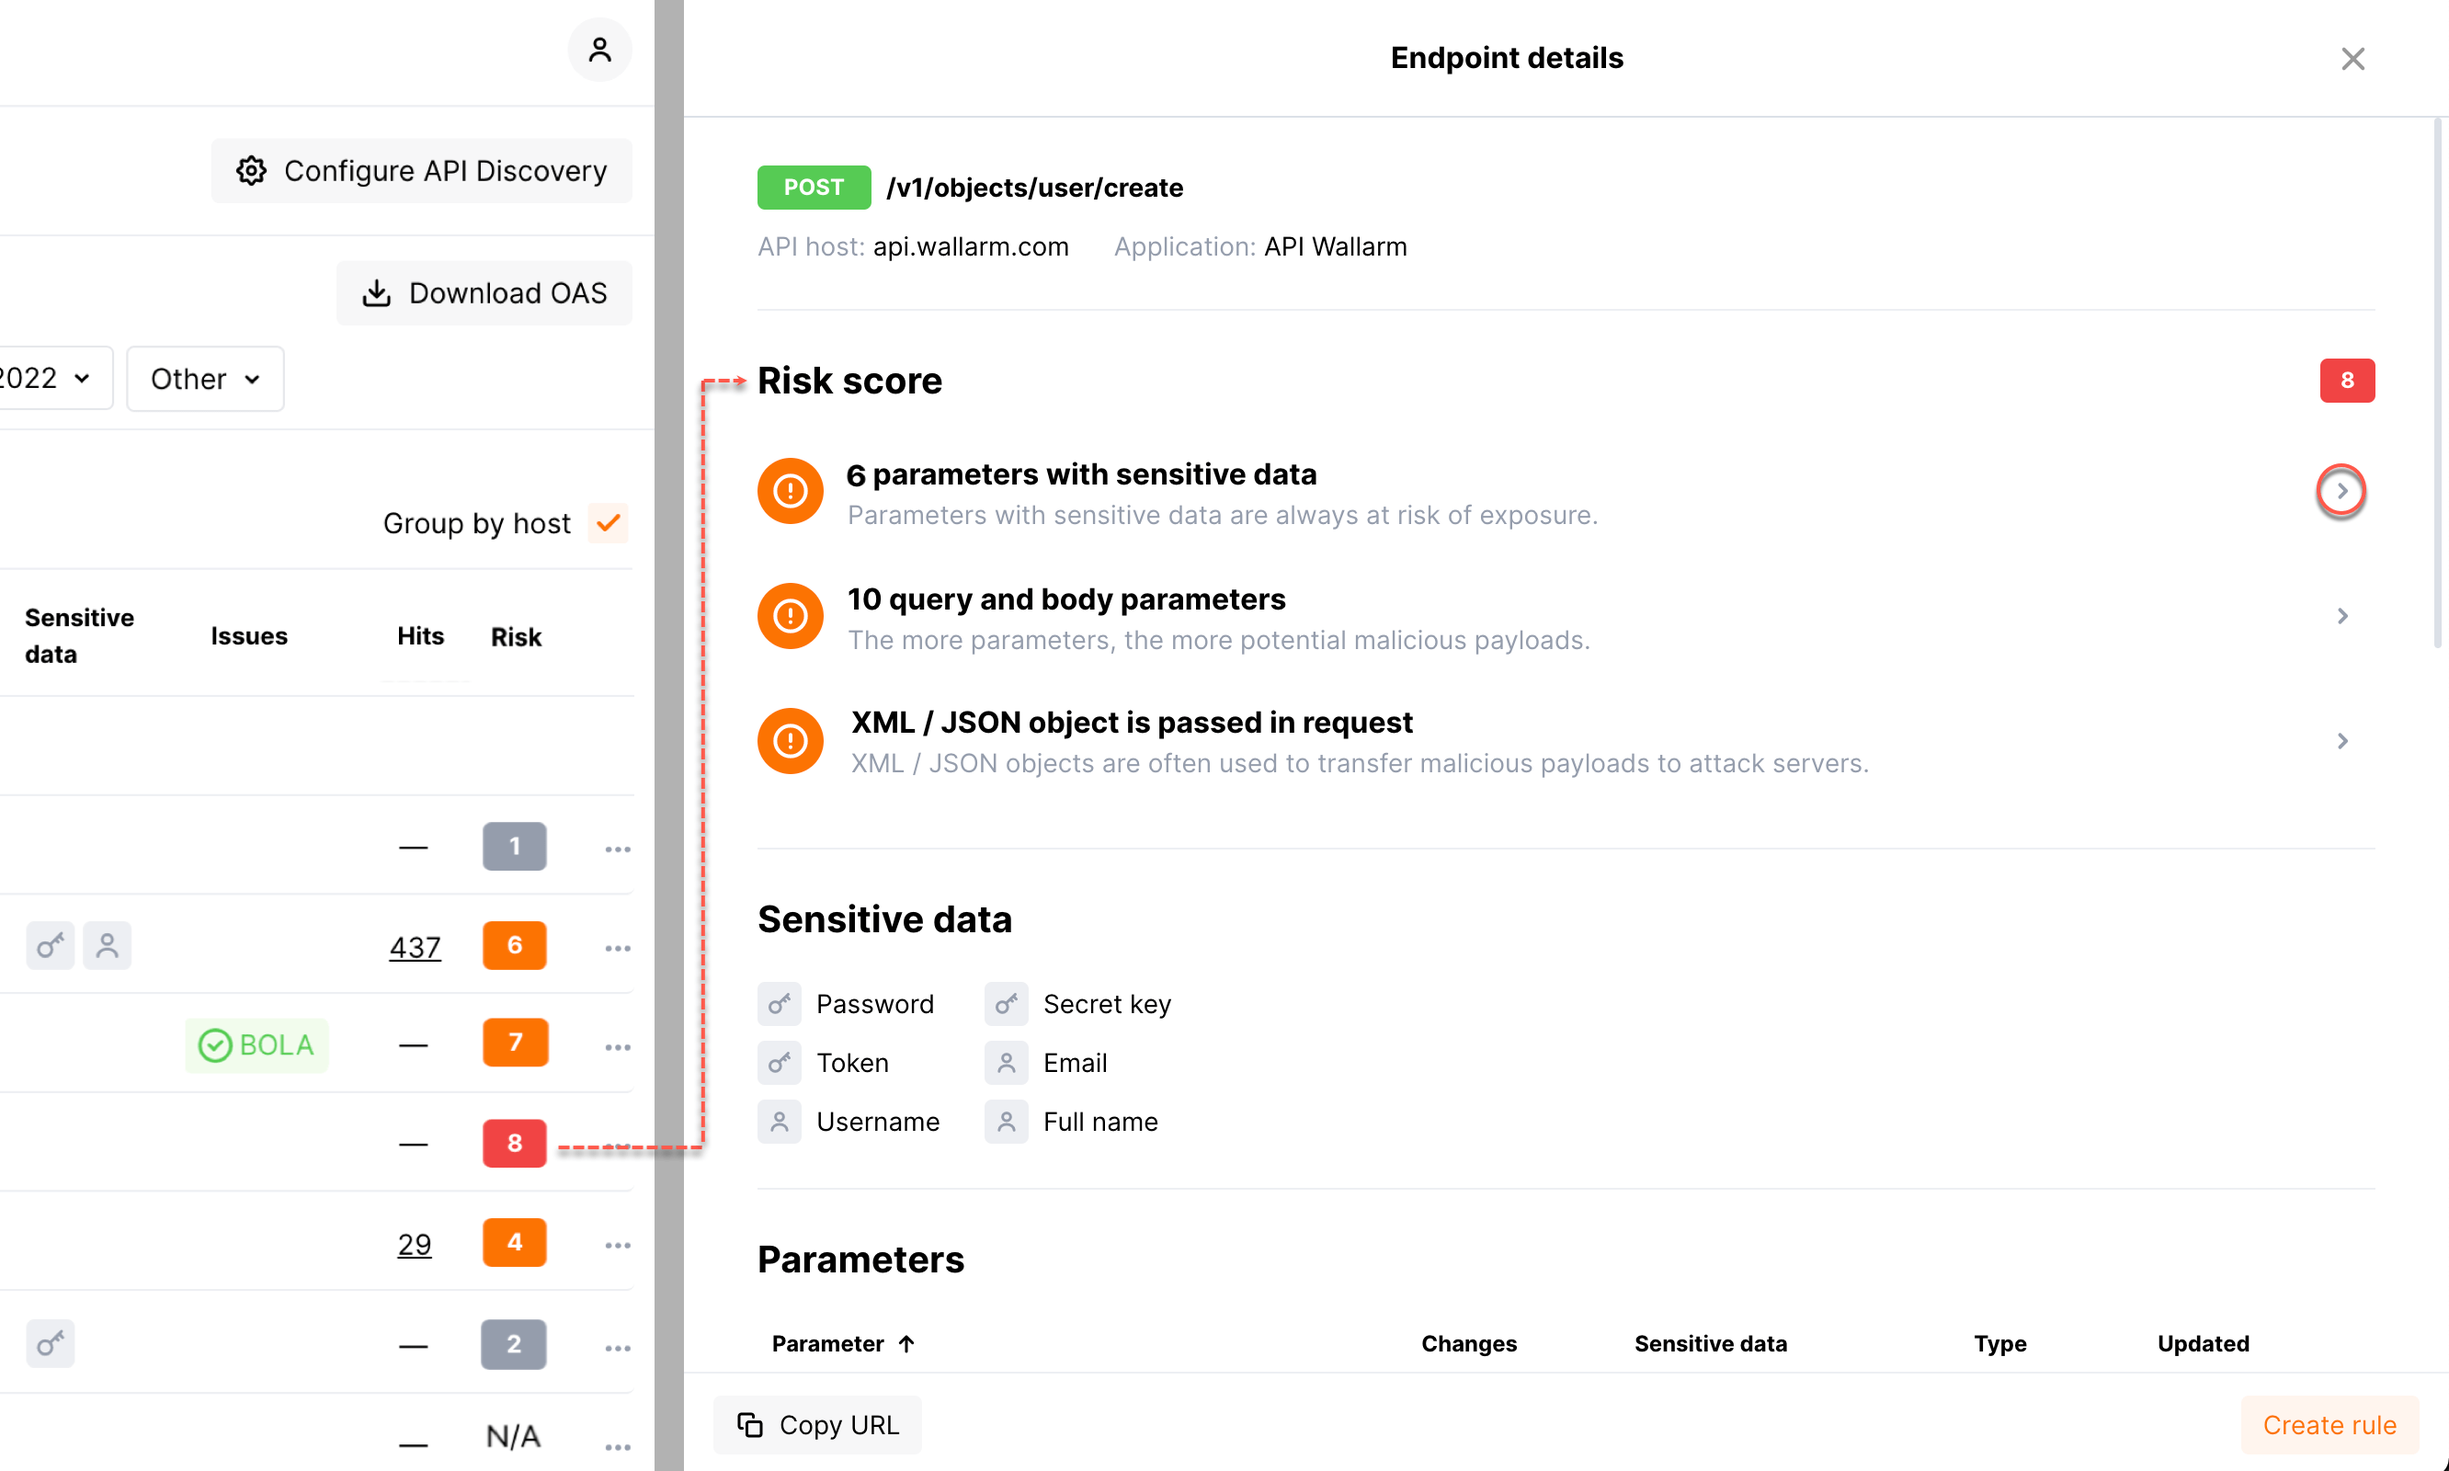
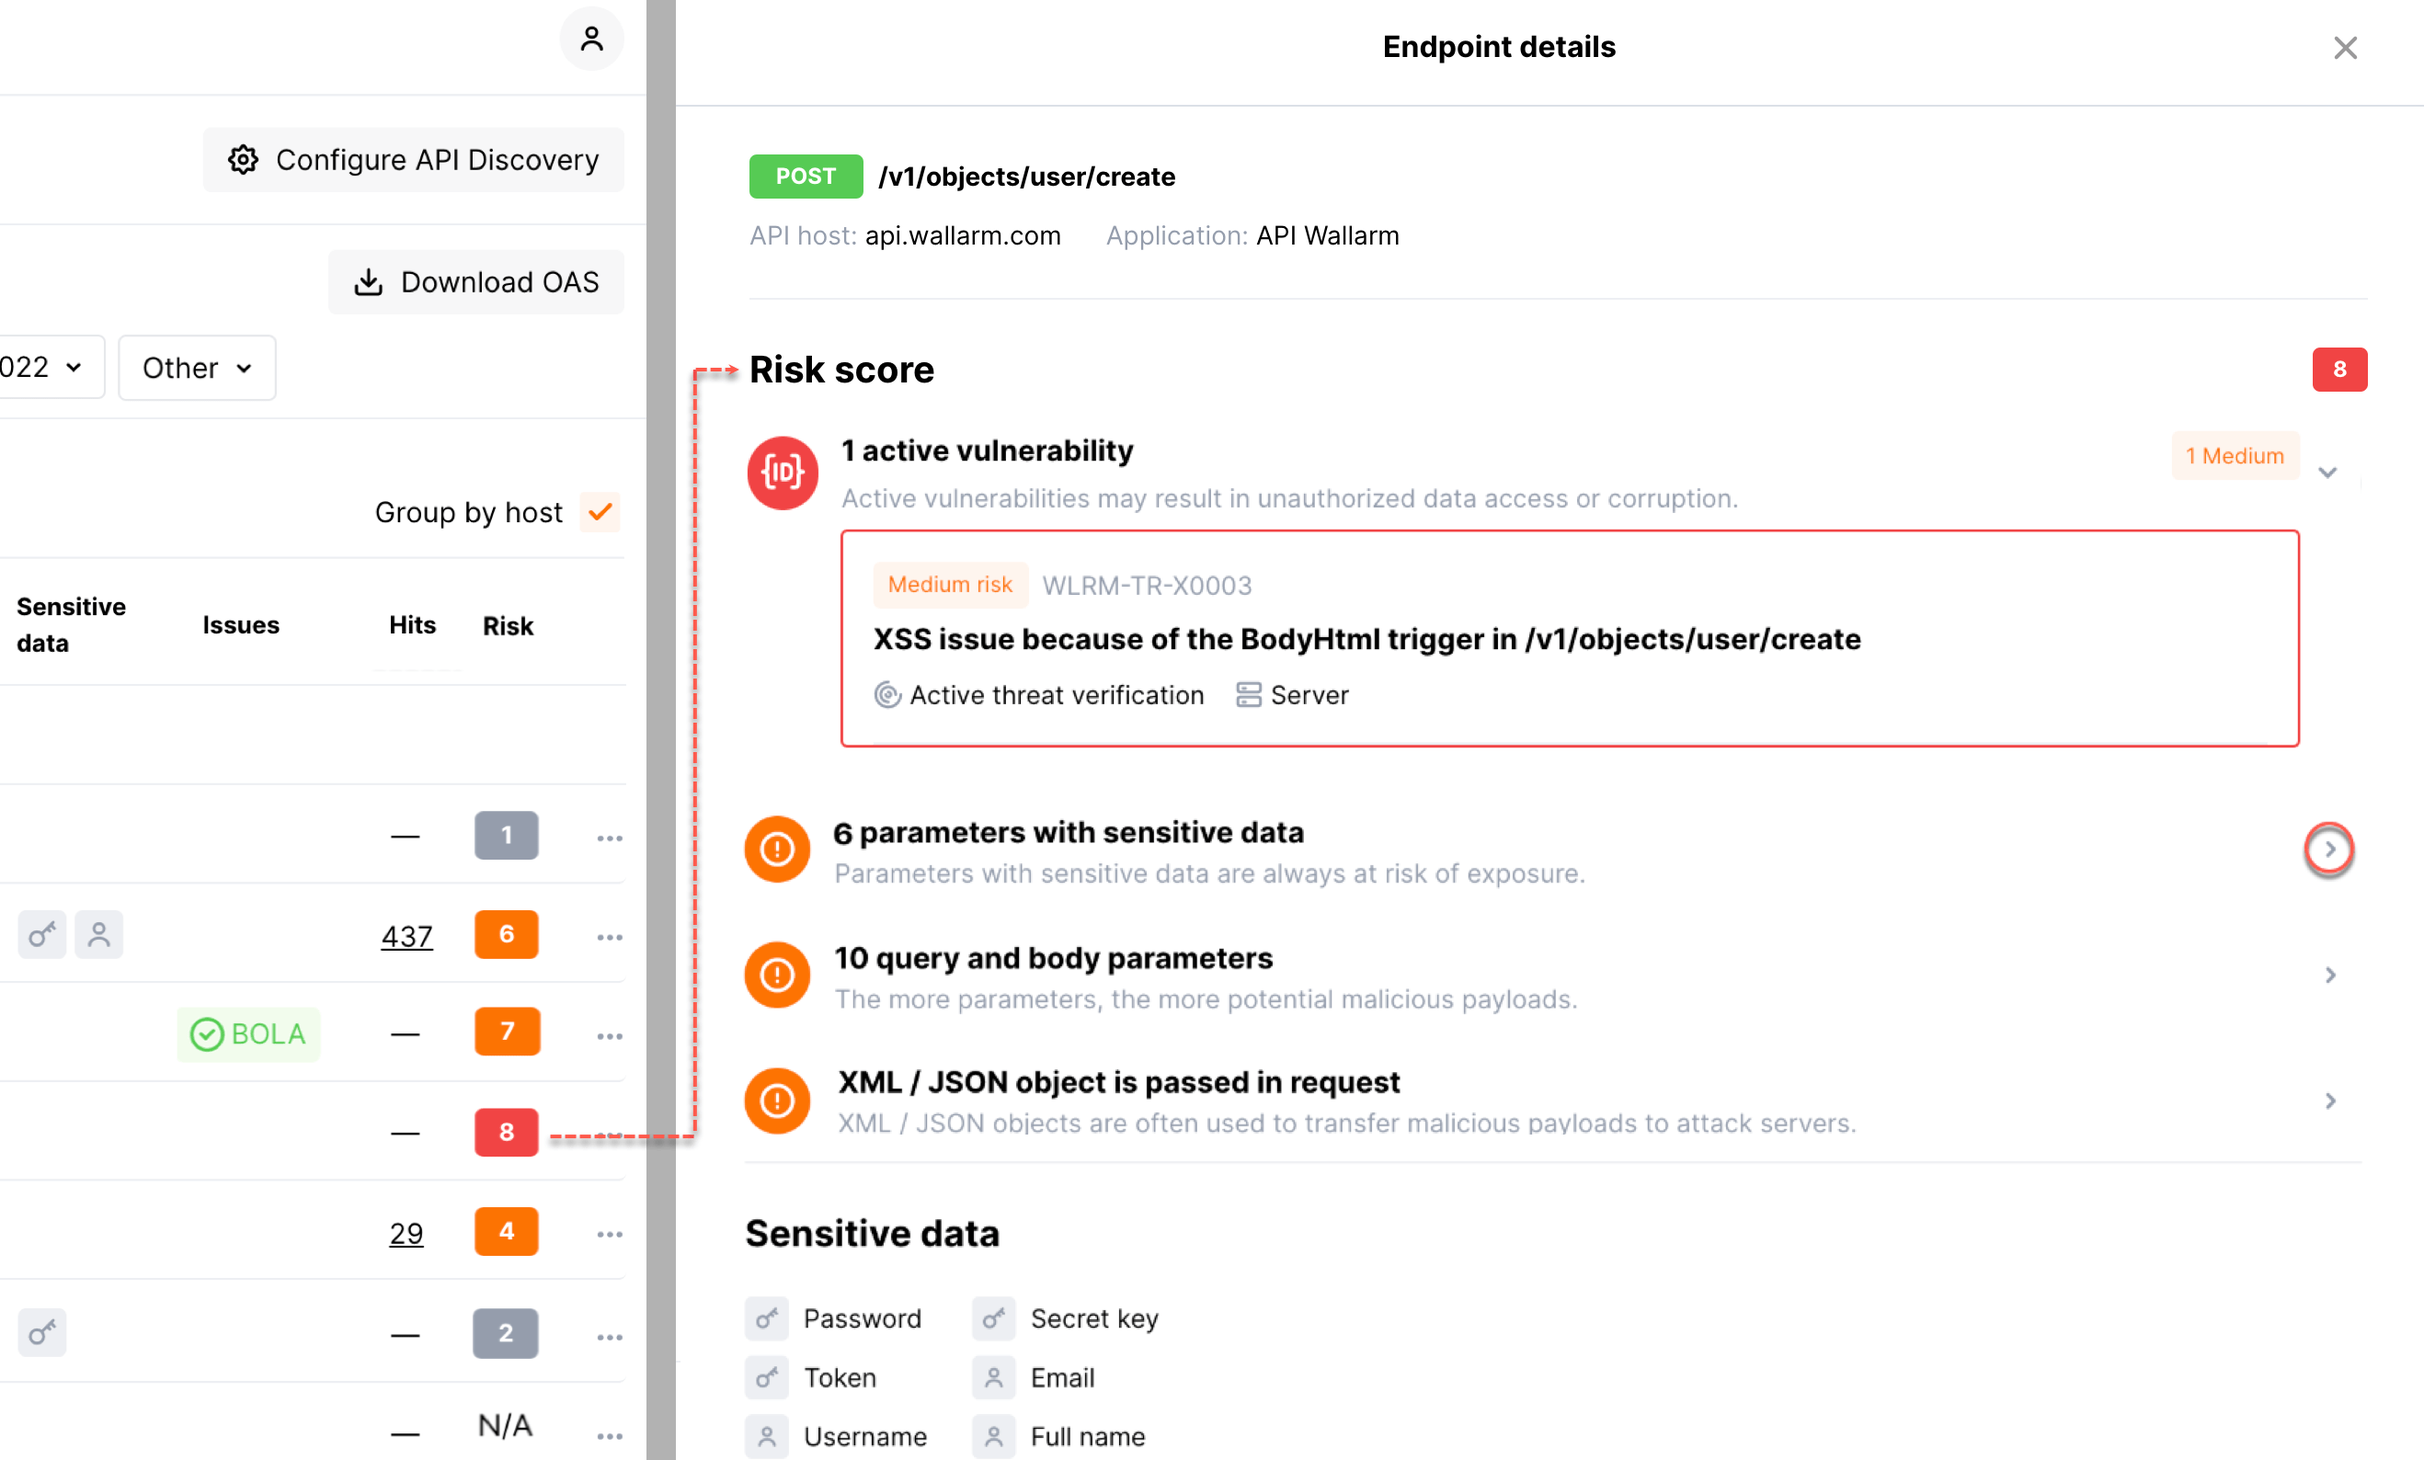
DOCS-1805 in vulns doc, mention that vulns are displayed in API Discovery

diff --git a/docs/latest/about-wallarm/detecting-vulnerabilities.md b/docs/latest/about-wallarm/detecting-vulnerabilities.md
@@ -86,9 +86,13 @@ All detected vulnerabilities are displayed in the Wallarm Console → **Vulnerab
 * Run vulnerability status verification: still active or fixed on the application side
 * Close vulnerabilities or mark them as false positives
 
-For more information on managing vulnerabilities, see the instructions on [working with vulnerabilities](../user-guides/vulnerabilities/check-vuln.md).
-
 ![!Vulnerabilities section](../images/about-wallarm-waf/vulnerabilities-list.png)
+
+If you use the [**API Discovery** module](api-discovery.md) of the Wallarm platform, vulnerabilities are linked with discovered API endpoints, e.g.:
+
+![!API Discovery - Risk score](../images/about-wallarm-waf/api-discovery/api-discovery-risk-score.png)
+
+For more information on managing vulnerabilities, see the instructions on [working with vulnerabilities](../user-guides/vulnerabilities/check-vuln.md).
 
 ## Notifications about discovered vulnerabilities
 
